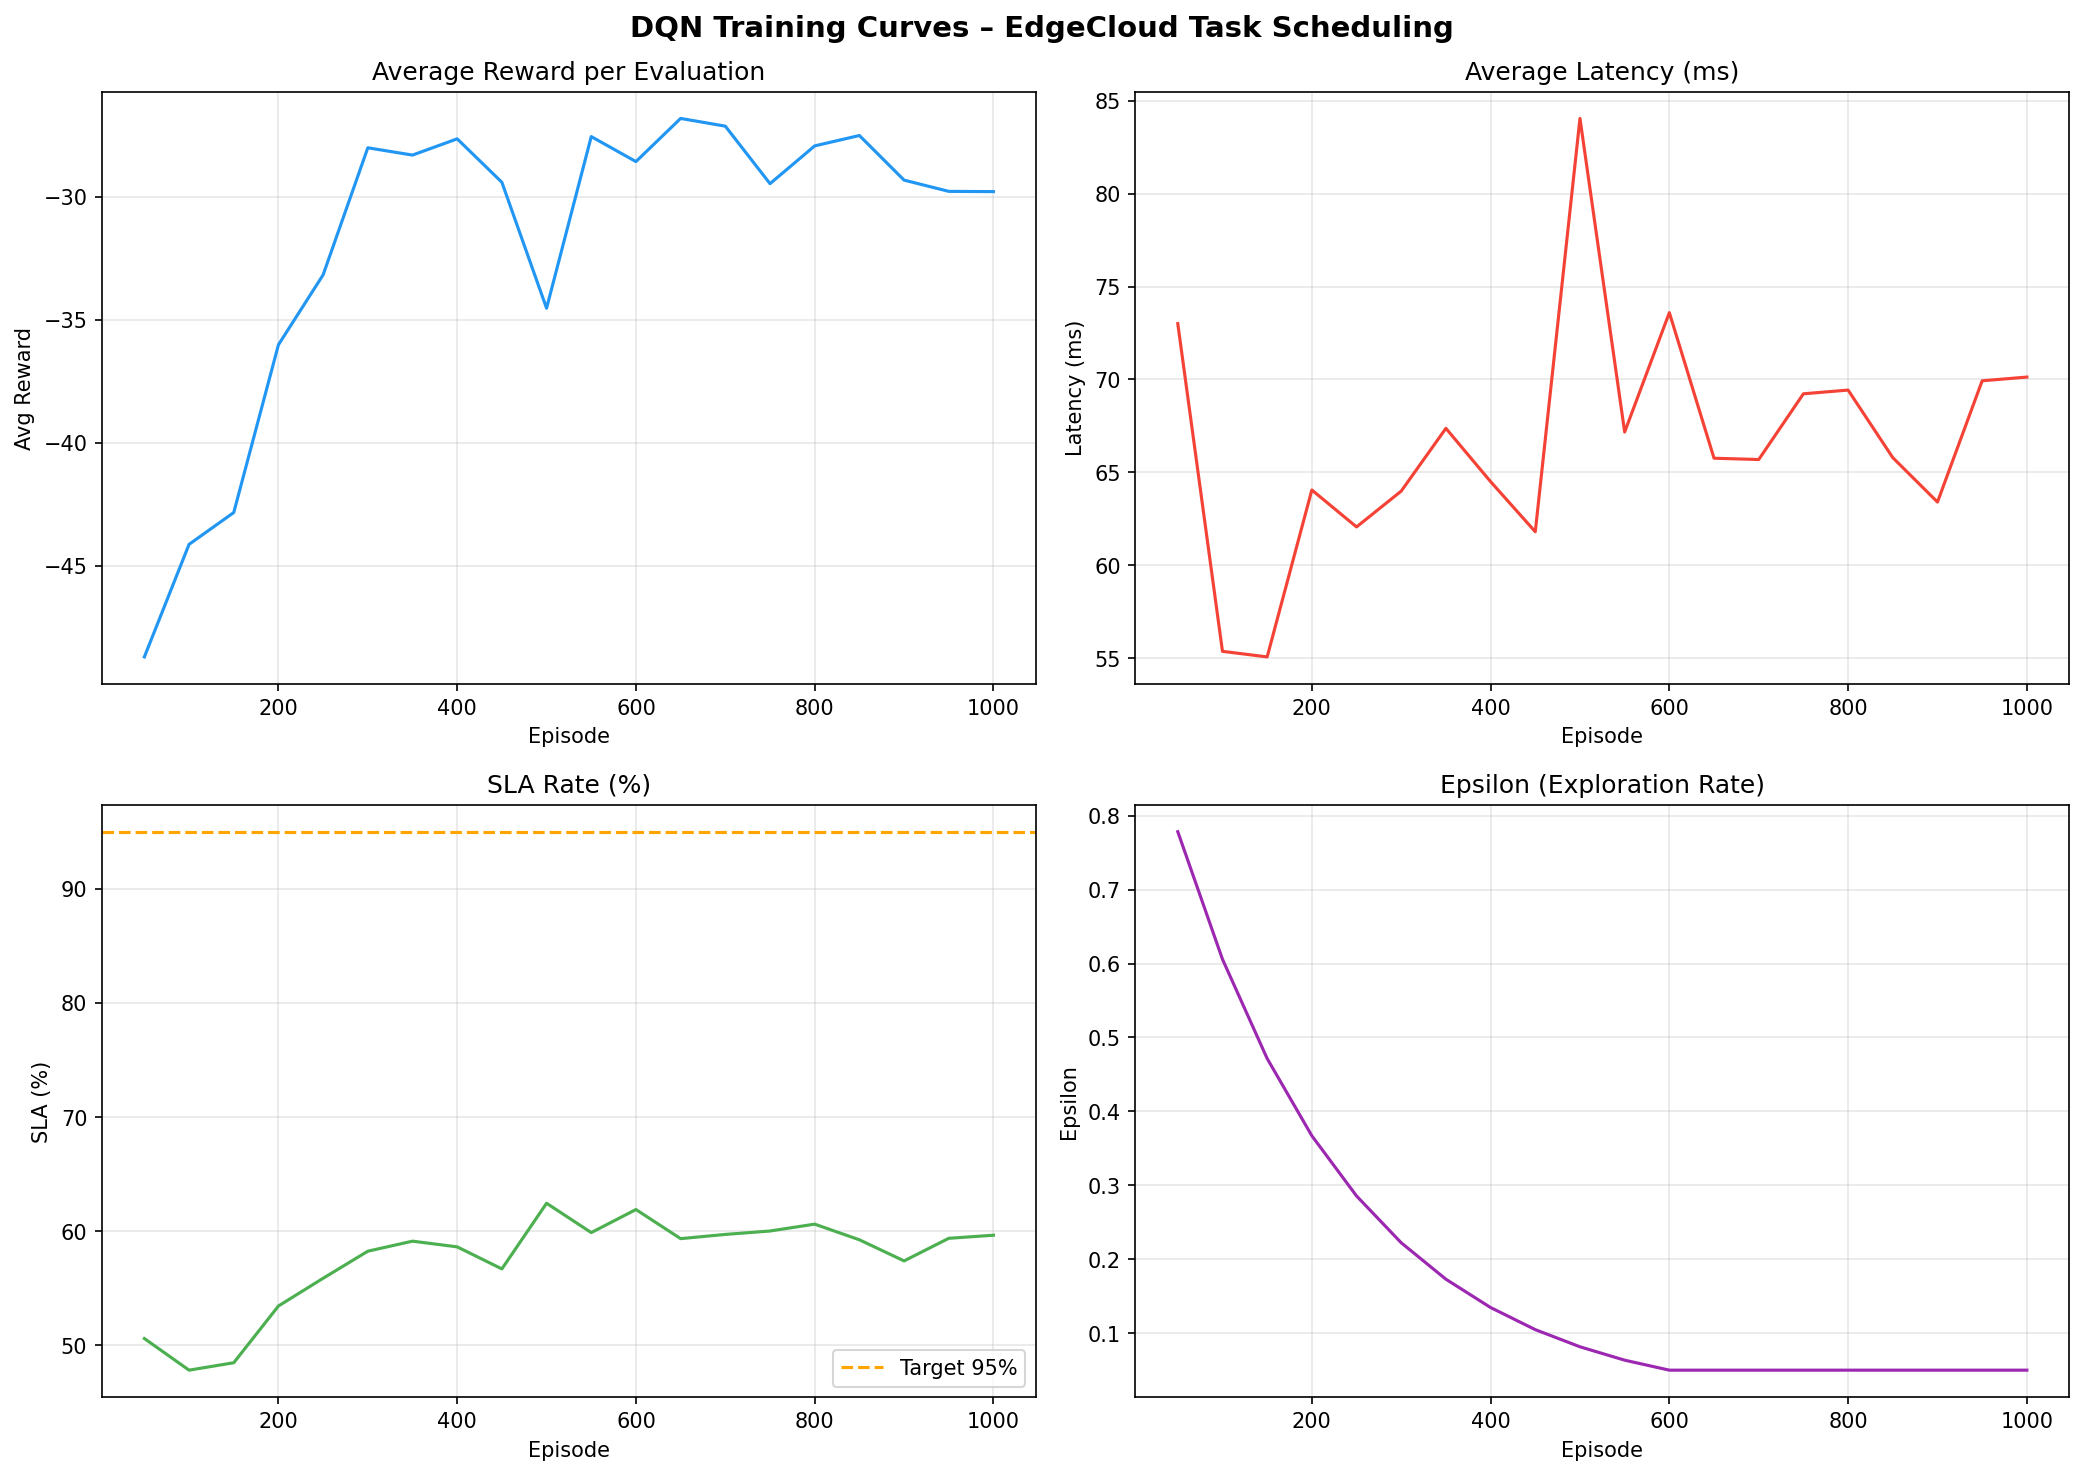
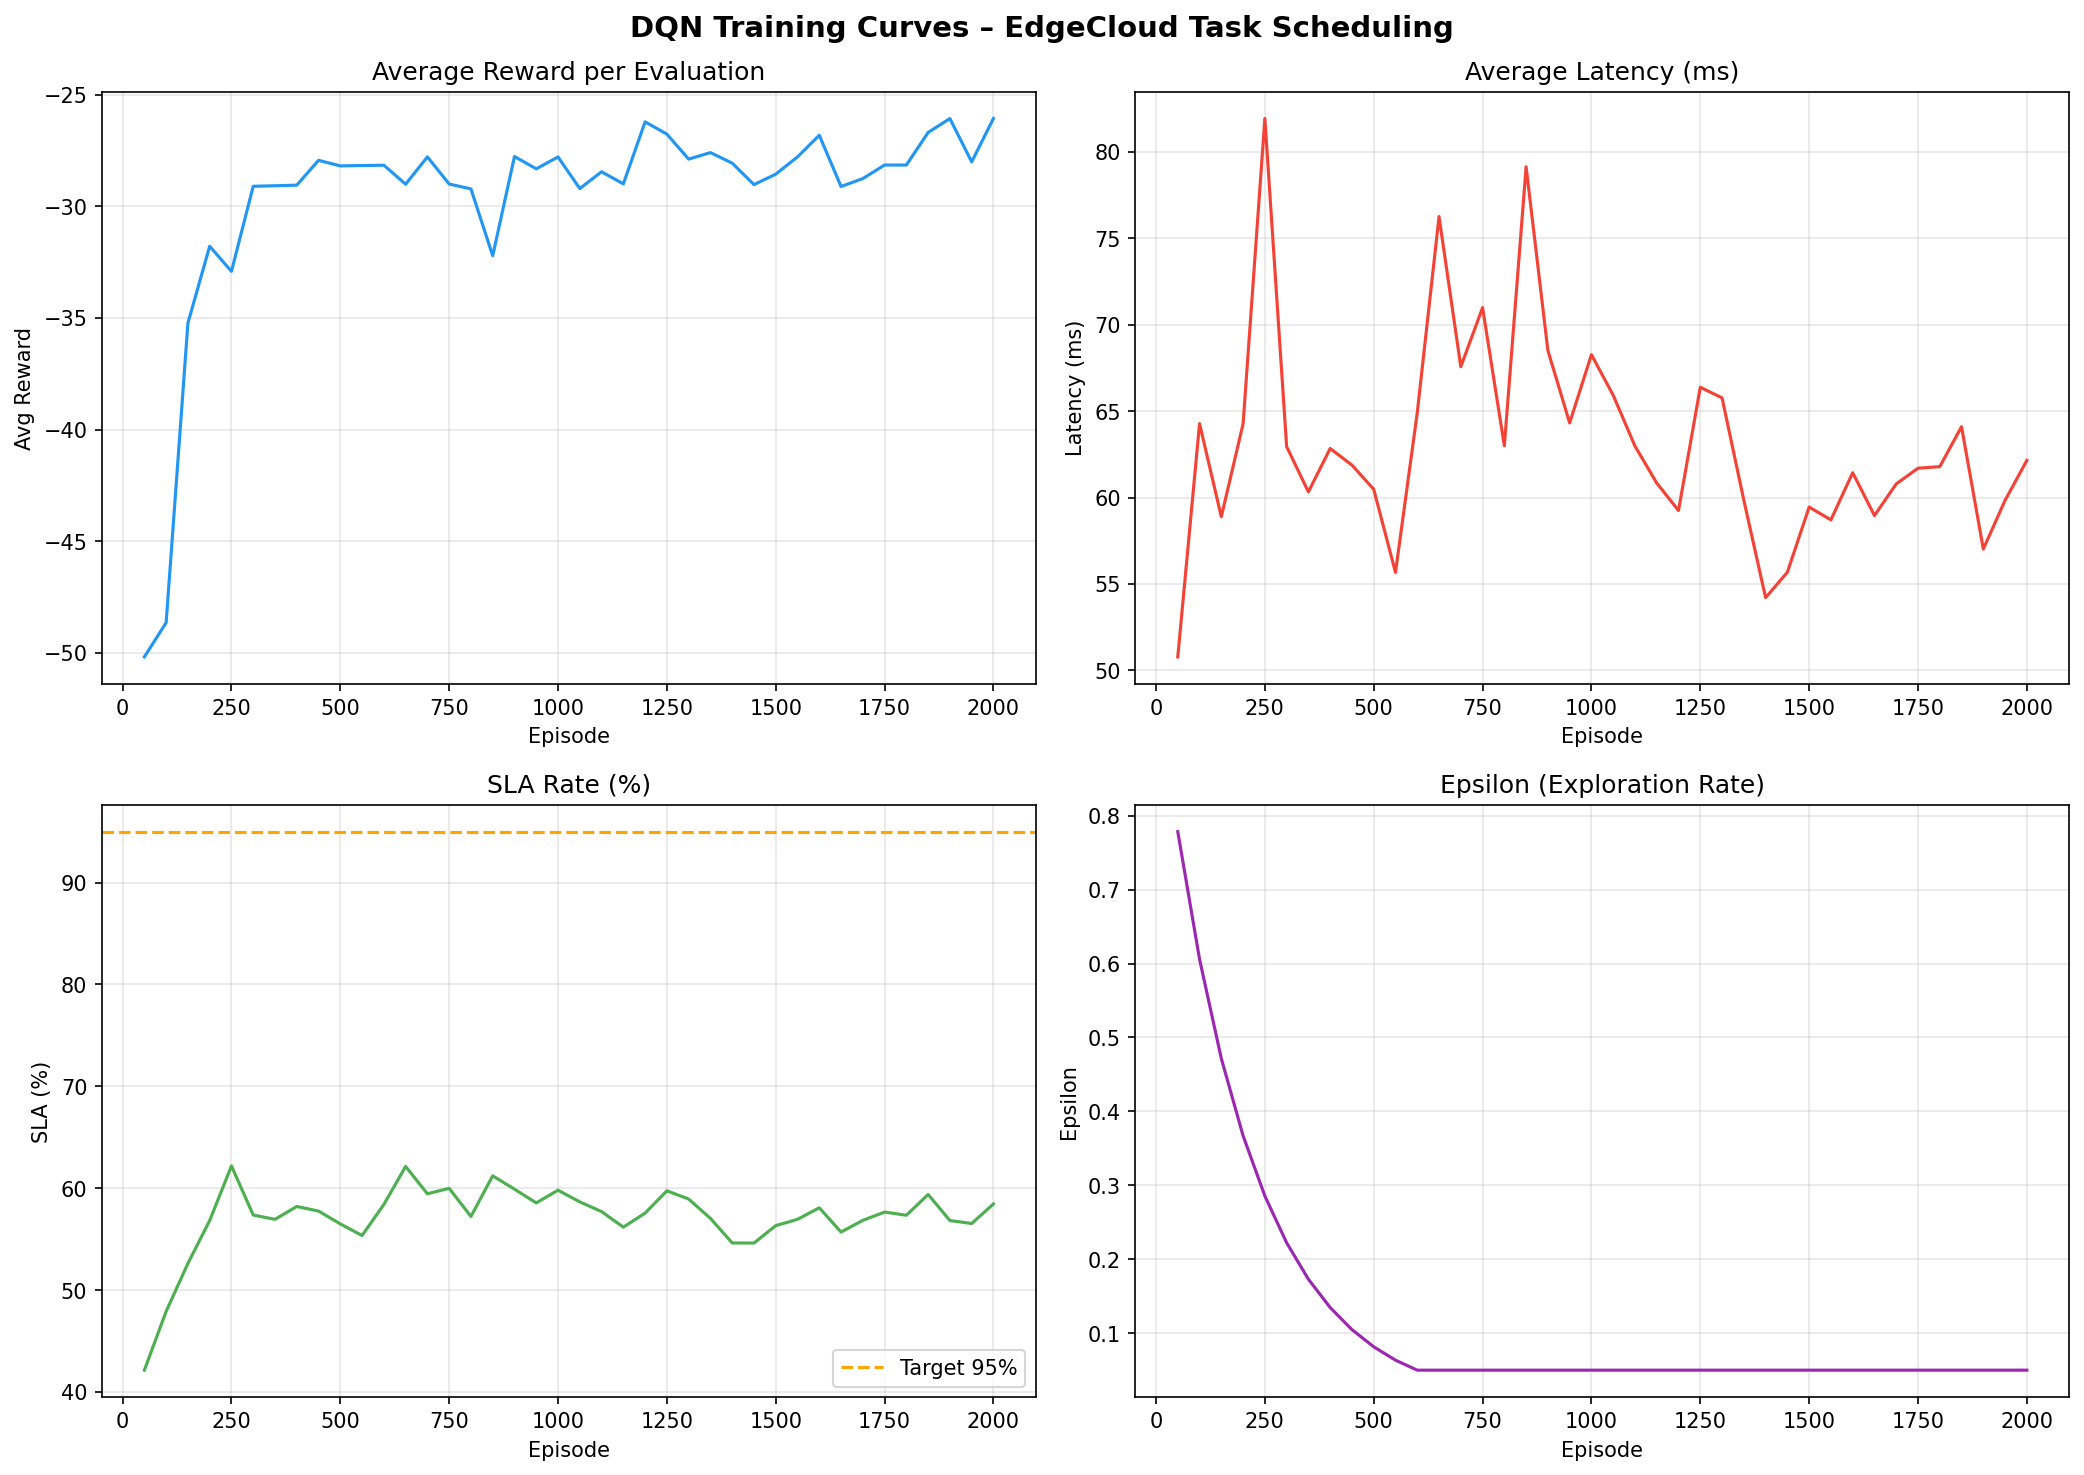
model

diff --git a/rl_training/train_dqn.py b/rl_training/train_dqn.py
@@ -40,11 +40,11 @@ def make_env(env_kind: str, **kwargs):
 # Cấu hình Training
 # ---------------------------------------------------------------------------
 TRAIN_CONFIG = {
-    "n_episodes":    1000,     # Tổng số episode training
+    "n_episodes":    2000,     # Tổng số episode training
     "n_edge_nodes":  2,
     "max_steps":     200,
     "eval_interval": 50,       # Đánh giá mỗi N episode
-    "eval_episodes": 20,       # Số episode dùng để đánh giá
+    "eval_episodes": 100,       # Số episode dùng để đánh giá
     "save_dir":      "models/checkpoints",
     "log_dir":       "experiments/logs",
     "plot_dir":      "experiments/plots",